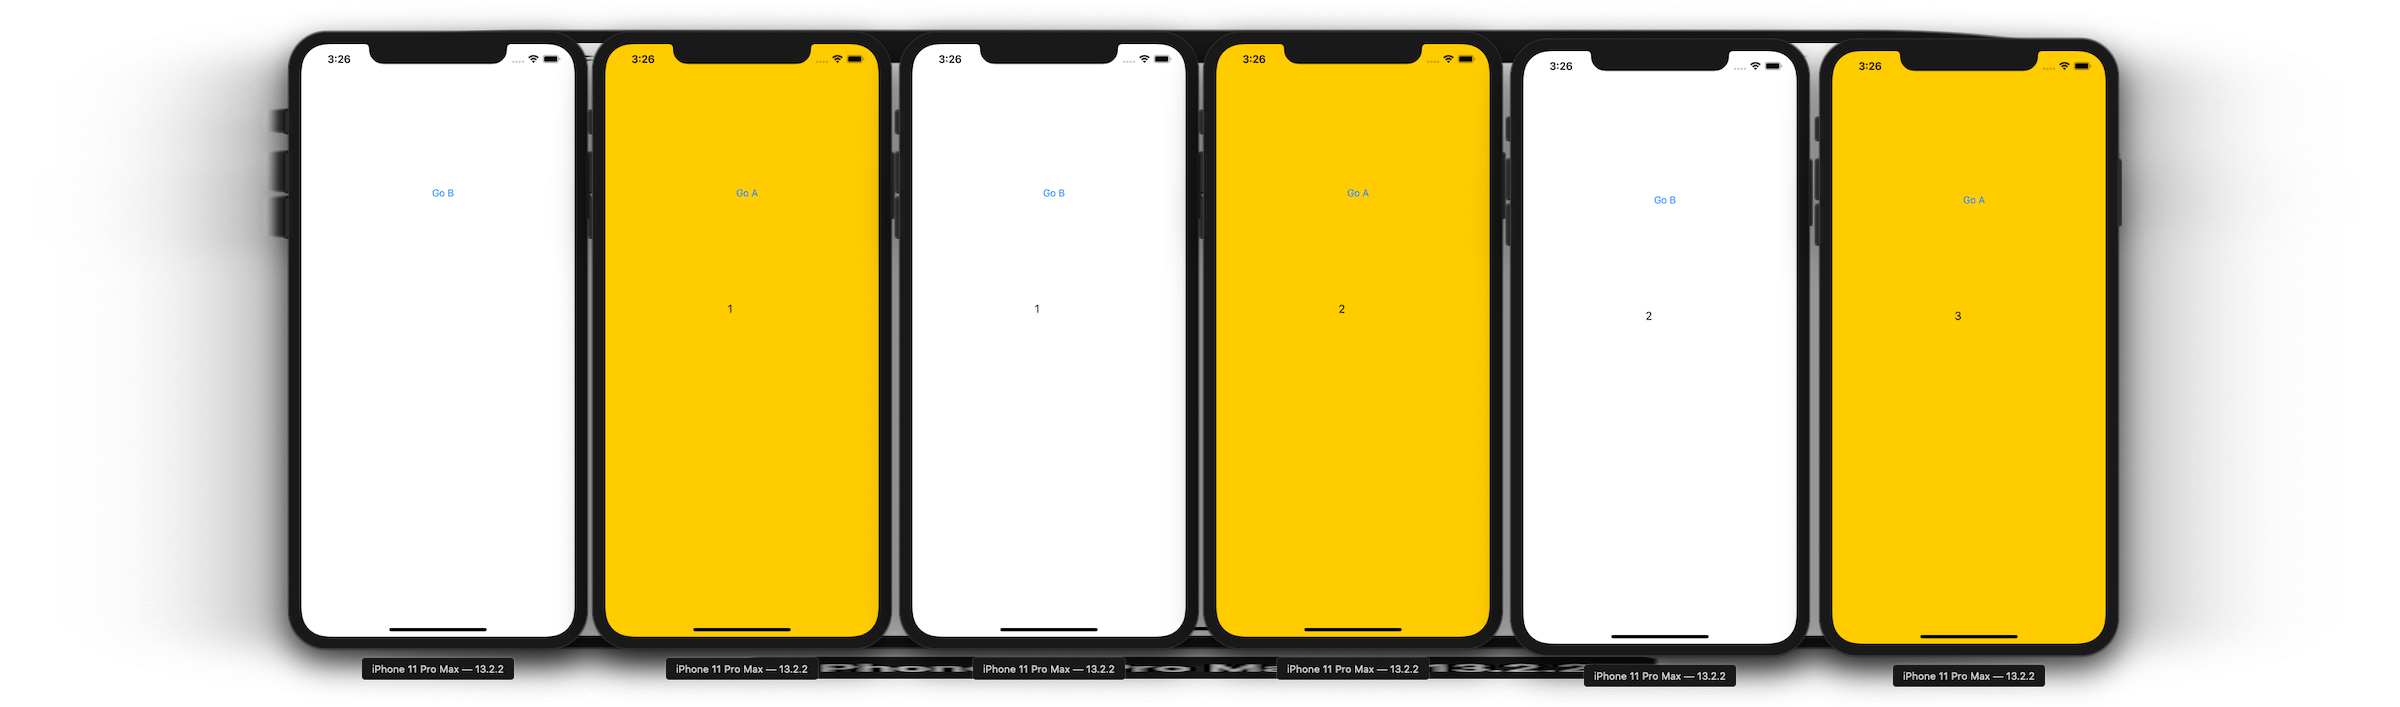
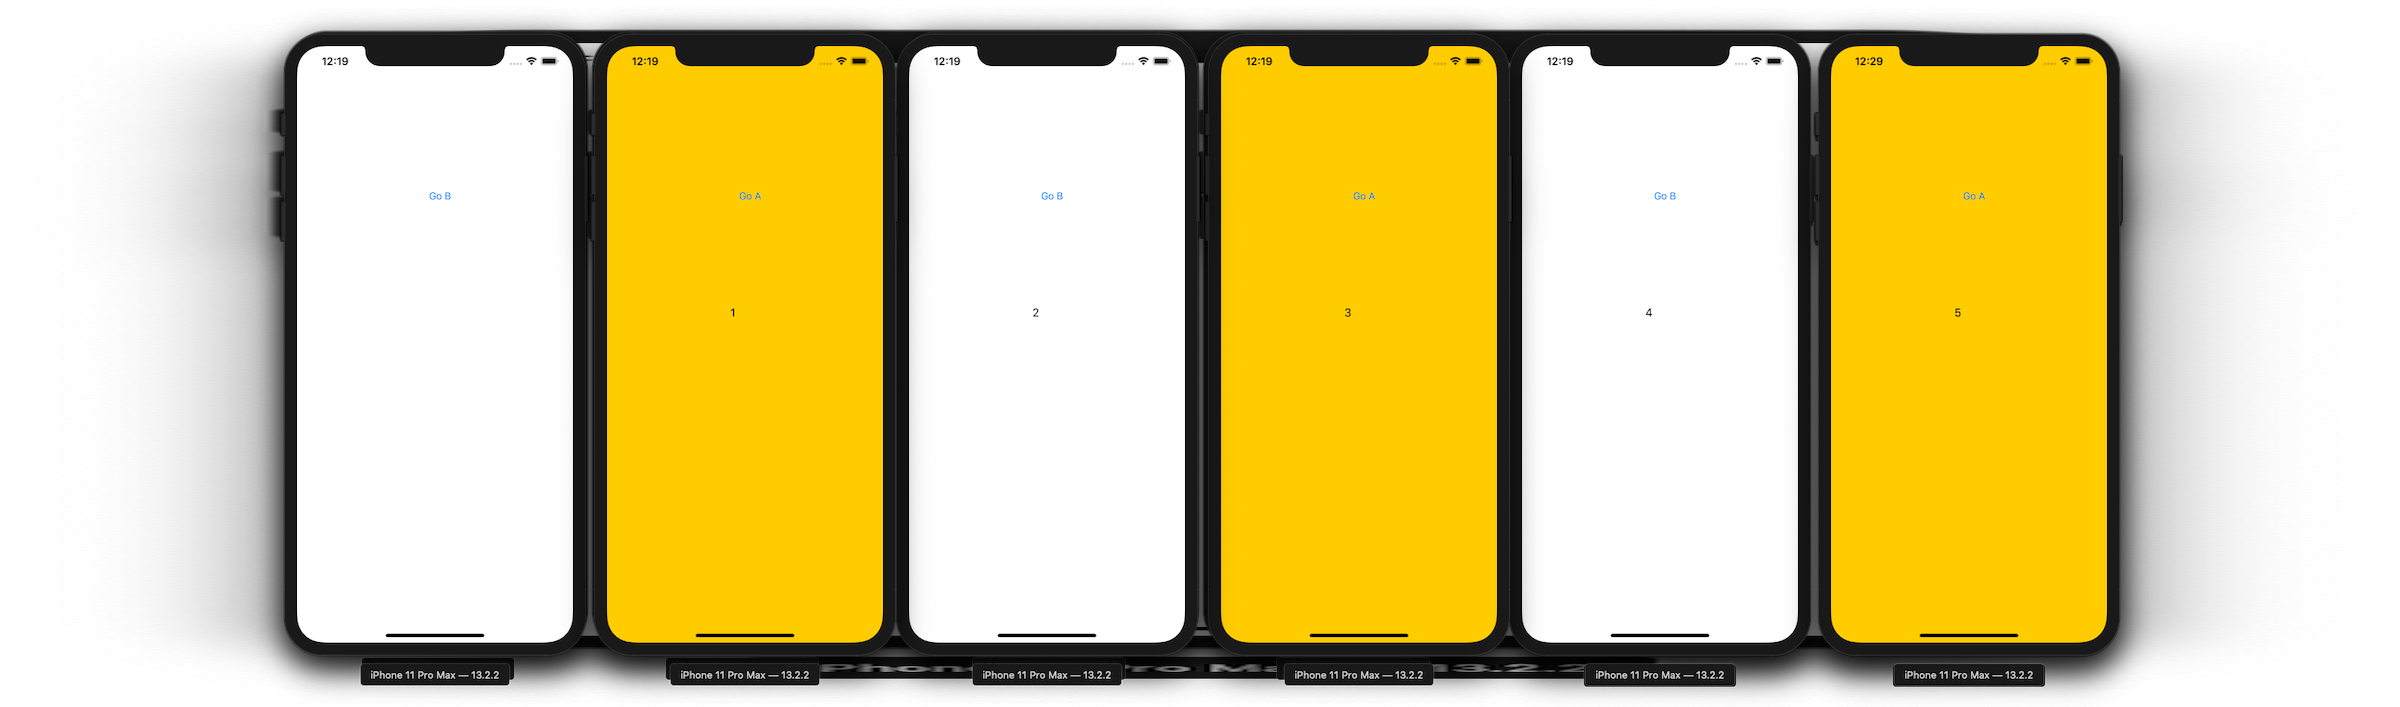
191126 Modification

diff --git a/Swift work/191125/191125_project_1/191125_project_1/AviewController.swift b/Swift work/191125/191125_project_1/191125_project_1/AviewController.swift
@@ -8,14 +8,11 @@
 
 import UIKit
 
-var counta = 0
-var label_b = UILabel()
-
-
 class AviewController: UIViewController {
 
-    
-    
+    var count = 0
+    var label_a = UILabel()
+
     
     override func viewDidLoad() {
         super.viewDidLoad()
@@ -31,14 +28,15 @@ class AviewController: UIViewController {
         view.addSubview(buttonB)
         
 //        var label_b = UILabel()
-        label_b.frame = CGRect(x: 185, y: 350, width: 150, height: 100)
-        label_b.textColor = .label
+        label_a.frame = CGRect(x: 185, y: 350, width: 150, height: 100)
+        label_a.textColor = .label
 //        label_b.text = "A화면"
-        view.addSubview(label_b)
+        view.addSubview(label_a)
         
         
         
     }
+        
     
     @objc private func bTapButton(_ sender: UIButton){
         
@@ -46,30 +44,35 @@ class AviewController: UIViewController {
         b_VC.modalPresentationStyle = .fullScreen
         present(b_VC, animated: true)
         
-        countb += 1
-//        print(("countb : \(countb)"))
+        guard let vc = presentedViewController as? BviewController else { return }
+        let bviewcontrol = vc.label_b
         
+//        print("aviewcount : ", aviewcount)
+//        bviewcontrol.text = String(count)
         
-        label_a.text = String(countb)
+        count += 1
+        bviewcontrol.text = String(count)
+        print("check1")
         
         
         }
     
     
-    
-    
     override func viewWillAppear(_ animated: Bool) {
         super.viewWillAppear(animated)
+        
         print("AviewWillAppear")
     }
     
     override func viewDidAppear(_ animated: Bool) {
         super.viewWillDisappear(animated)
+        
         print("AviewWillDisappear")
     }
     
     override func viewWillDisappear(_ animated: Bool) {
         super.viewWillDisappear(animated)
+        
         print("AviewWillDisappear")
     }
     override func viewDidDisappear(_ animated: Bool) {

diff --git a/Swift work/191125/191125_project_1/191125_project_1/BviewController.swift b/Swift work/191125/191125_project_1/191125_project_1/BviewController.swift
@@ -8,17 +8,16 @@
 
 import UIKit
 
-var countb = 0
-var label_a = UILabel()
-
 class BviewController: UIViewController {
     
     
+    var label_b = UILabel()
+
     
     override func viewDidLoad() {
-           super.viewDidLoad()
-           
-           print("viewDidLoad")
+        super.viewDidLoad()
+        
+        print("viewDidLoad")
         
         view.backgroundColor = .systemYellow
         
@@ -29,21 +28,29 @@ class BviewController: UIViewController {
         view.addSubview(buttonA)
         
 //        let label_a = UILabel()
-        label_a.frame = CGRect(x: 185, y: 350, width: 150, height: 100)
-        label_a.textColor = .label
+        label_b.frame = CGRect(x: 185, y: 350, width: 150, height: 100)
+        label_b.textColor = .label
         
-        view.addSubview(label_a)
+        view.addSubview(label_b)
         
         
     }
     
+   
+    
     @objc private func aTapButton(_ sender: UIButton){
            
-        counta += 1
-        dismiss(animated: true)
-//        print("counta : \(counta)")
+        guard let vc = presentingViewController as? AviewController else  { return }
+        let aviewcontrol = vc.label_a
+        _ = vc.count
         
-        label_b.text = String(counta)
+        vc.count += 1
+        dismiss(animated: true)
+//        print("bviewcount : ", bviewcount)
+//        bviewcontrol.text = String(countb)
+        
+        aviewcontrol.text = String(vc.count)
+        print("check2")
         
         
     }
@@ -51,7 +58,6 @@ class BviewController: UIViewController {
 
     override func viewWillAppear(_ animated: Bool) {
         super.viewWillAppear(animated)
-        
         print("BviewWillAppear")
     }
     

diff --git a/Swift work/191125/191125_project_1/191125_project_1_homework.md b/Swift work/191125/191125_project_1/191125_project_1_homework.md
@@ -4,12 +4,12 @@
 
 import UIKit
 
-var counta = 0
-var label_b = UILabel()
-
-
 class AviewController: UIViewController {
 
+    var count = 0
+    var label_a = UILabel()
+
+    
     override func viewDidLoad() {
         super.viewDidLoad()
         
@@ -24,12 +24,14 @@ class AviewController: UIViewController {
         view.addSubview(buttonB)
         
 
-        label_b.frame = CGRect(x: 185, y: 350, width: 150, height: 100)
-        label_b.textColor = .label
-//        label_b.text = "A화면"
-        view.addSubview(label_b)
-             
+        label_a.frame = CGRect(x: 185, y: 350, width: 150, height: 100)
+        label_a.textColor = .label
+        view.addSubview(label_a)
+        
+        
+        
     }
+        
     
     @objc private func bTapButton(_ sender: UIButton){
         
@@ -37,13 +39,39 @@ class AviewController: UIViewController {
         b_VC.modalPresentationStyle = .fullScreen
         present(b_VC, animated: true)
         
-        countb += 1
-//        print(("countb : \(countb)"))
-        label_a.text = String(countb)
+        guard let vc = presentedViewController as? BviewController else { return }
+        let bviewcontrol = vc.label_b
+           
+        count += 1
+        bviewcontrol.text = String(count)
+//        print("check1")
         
         
         }
- 
+    
+    
+    override func viewWillAppear(_ animated: Bool) {
+        super.viewWillAppear(animated)
+        
+        print("AviewWillAppear")
+    }
+    
+    override func viewDidAppear(_ animated: Bool) {
+        super.viewWillDisappear(animated)
+        
+        print("AviewWillDisappear")
+    }
+    
+    override func viewWillDisappear(_ animated: Bool) {
+        super.viewWillDisappear(animated)
+        
+        print("AviewWillDisappear")
+    }
+    override func viewDidDisappear(_ animated: Bool) {
+        super.viewDidDisappear(animated)
+        print("AviewDidDisappear")
+    }
+    
 }
 ```
        
@@ -57,17 +85,16 @@ class AviewController: UIViewController {
 
 import UIKit
 
-var countb = 0
-var label_a = UILabel()
-
 class BviewController: UIViewController {
     
     
+    var label_b = UILabel()
+
     
     override func viewDidLoad() {
-           super.viewDidLoad()
-           
-           print("viewDidLoad")
+        super.viewDidLoad()
+        
+        print("viewDidLoad")
         
         view.backgroundColor = .systemYellow
         
@@ -78,23 +105,50 @@ class BviewController: UIViewController {
         view.addSubview(buttonA)
         
 
-        label_a.frame = CGRect(x: 185, y: 350, width: 150, height: 100)
-        label_a.textColor = .label
-        
-        view.addSubview(label_a)
+        label_b.frame = CGRect(x: 185, y: 350, width: 150, height: 100)
+        label_b.textColor = .label 
+        view.addSubview(label_b)
         
         
     }
     
+   
+    
     @objc private func aTapButton(_ sender: UIButton){
            
-        counta += 1
-        dismiss(animated: true)
-//        print("counta : \(counta)")
+        guard let vc = presentingViewController as? AviewController else  { return }
+        let aviewcontrol = vc.label_a
+        _ = vc.count
         
-        label_b.text = String(counta)  
+        vc.count += 1
+        dismiss(animated: true)
+        aviewcontrol.text = String(vc.count)
+//        print("check2")
+        
         
     }
-  
+    
+
+    override func viewWillAppear(_ animated: Bool) {
+        super.viewWillAppear(animated)
+        print("BviewWillAppear")
+    }
+    
+    override func viewDidAppear(_ animated: Bool) {
+        super.viewWillDisappear(animated)
+        print("BviewDidAppear")
+    }
+    
+    override func viewWillDisappear(_ animated: Bool) {
+        super.viewWillDisappear(animated)
+        print("BviewWillDisappear")
+    }
+    override func viewDidDisappear(_ animated: Bool) {
+        super.viewDidDisappear(animated)
+        print("BviewDidDisAppear")
+    }
+    
+
 }
+
 ```
